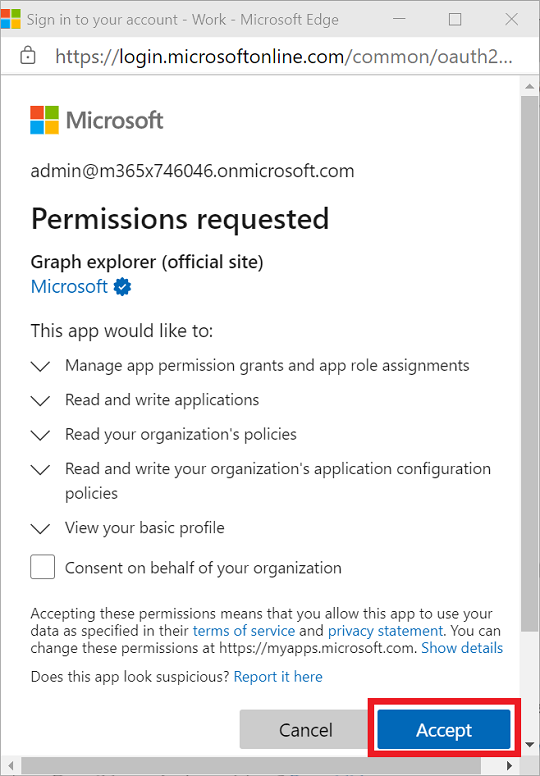
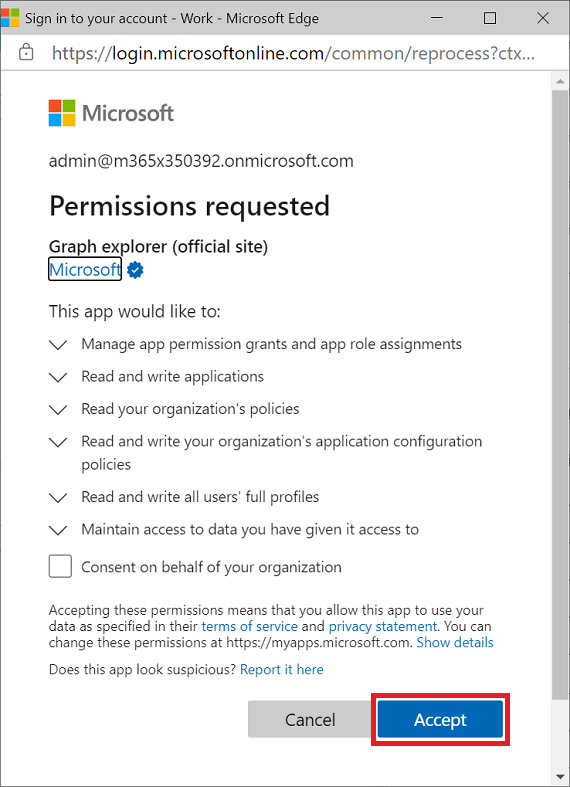
minor corrections

diff --git a/concepts/application-saml-sso-configure-api.md b/concepts/application-saml-sso-configure-api.md
@@ -18,7 +18,7 @@ This article uses an AWS Azure AD application template as an example, but you ca
 
 ## Prerequisites
 
-This tutorial assumes that you are using Microsoft Graph Explorer, but you can use Postman, or create your own client app to call Microsoft Graph. To call the Microsoft Graph APIs in this tutorial, you need to use an account with the global administrator role and the appropriate permissions. For this tutorial, the `Application.ReadWrite.All`, `AppRoleAssignment.ReadWrite.All`, `Policy.Read.All`, and `Policy.ReadWrite.ApplicationConfiguration` delegated permissions are needed. Complete the following steps to set permissions in Microsoft Graph Explorer:
+This tutorial assumes that you are using Microsoft Graph Explorer, but you can use Postman, or create your own client app to call Microsoft Graph. To call the Microsoft Graph APIs in this tutorial, you need to use an account with the global administrator role and the appropriate permissions. For this tutorial, the `Application.ReadWrite.All`, `AppRoleAssignment.ReadWrite.All`, `Policy.Read.All`, `Policy.ReadWrite.ApplicationConfiguration`, and `User.ReadWrite.All` delegated permissions are needed. Complete the following steps to set permissions in Microsoft Graph Explorer:
 
 1. Start [Microsoft Graph Explorer](https://developer.microsoft.com/graph/graph-explorer).
 2. Select **Sign-In with Microsoft** and sign in using an Azure AD global administrator account. After you successfully sign in, you can see the user account details in the left-hand pane.
@@ -26,7 +26,7 @@ This tutorial assumes that you are using Microsoft Graph Explorer, but you can u
 
     ![Select the Microsoft Graph permissions](./images/application-saml-sso-configure-api/set-permissions.png)
         
-4. Scroll through the list of permissions to the `AppRoleAssignment` permissions, expand **AppRoleAssignment (1)**, and select the **AppRoleAssignment.ReadWrite.All** permission. Scroll further down the list of permissions to the `Application` permissions, expand **Application (2)**, and select the **Application.ReadWrite.All** permission. Continue to the `Policy` permissions, expand **Policy (13)**, and select the **Policy.Read.All**  and **Policy.ReadWrite.ApplicationConfiguration** permissions. Finally, scroll to and expand **Users (8)**, and then select **User.ReadWrite.All**. 
+4. Scroll through the list of permissions to the `AppRoleAssignment` permissions, expand **AppRoleAssignment (1)**, and select the **AppRoleAssignment.ReadWrite.All** permission. Scroll further down the list of permissions to the `Application` permissions, expand **Application (2)**, and select the **Application.ReadWrite.All** permission. Continue to the `Policy` permissions, expand **Policy (13)**, and select the **Policy.Read.All**  and **Policy.ReadWrite.ApplicationConfiguration** permissions. Finally, scroll to the `User` permissions, expand **Users (8)**, and then select **User.ReadWrite.All**. 
 
     ![Scroll to and select the approleassignment, application, and policy permissions](./images/application-saml-sso-configure-api/select-permissions.png)
 
@@ -449,7 +449,7 @@ Content-type: claimsMappingPolicies/json
 
 ### Assign a claims mapping policy to a service principal
 
-Use the **objectId** for the service principal that you recorded earlier to assign a claims mapping policy to it. Use the value of the **id** property for the claims mapping policy in the body of the request.
+Use the **id** for the service principal that you recorded earlier to assign a claims mapping policy to it. Use the value of the **id** property for the claims mapping policy in the body of the request.
 
 #### Request
 
@@ -470,11 +470,11 @@ HTTP/1.1 204
 
 ## Step 4: Configure a signing certificate
 
-Assign your certificate to the application. 
+You need a self-signed certificate that Azure AD can use to sign a SAML response. You can use your own certificate or you can use the following example. 
 
 ### Create a signing certificate
 
-You need a self-signed certificate that Azure AD can use to sign a SAML response. You can use your own certificate or you can use the following example.
+Using the **id** of the service principal that you created, create a new certificate and add it to the service principal.
 
 #### Request
 
